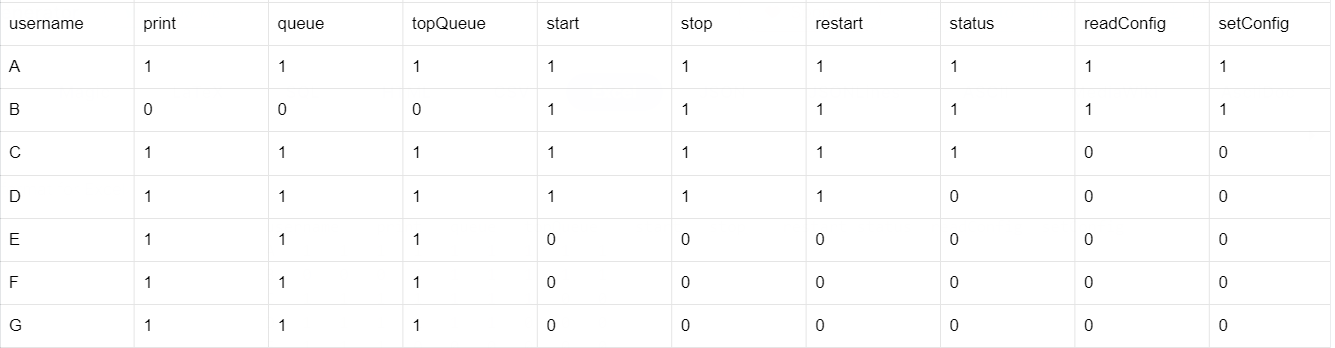
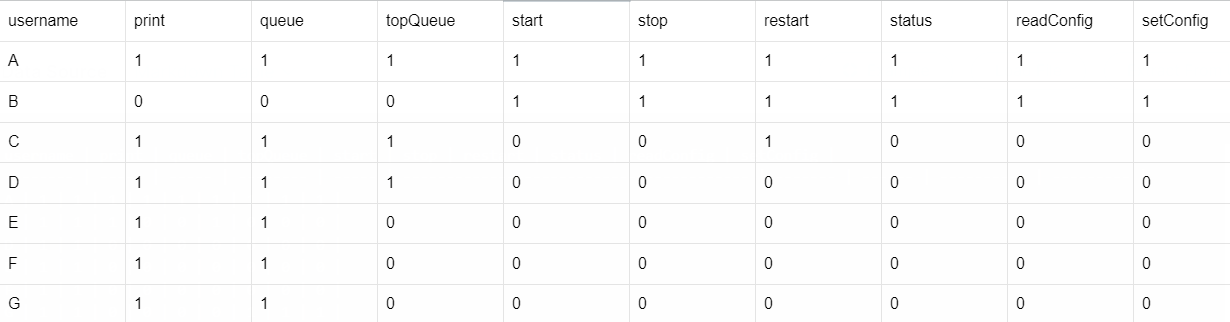
final review

diff --git a/Report-access-control.md b/Report-access-control.md
@@ -18,7 +18,7 @@ The two primary access control models are Access Control Lists (ACL) and Role-Ba
 For the purpose of this AC lab, the goal is to achieve the following properties:
 
 - Integrate both ACL and RBAC methodologies, making it possible to switch between the two.
-- External management of ACL parameters.
+- Indipendent management of ACL parameters with respect to software application.
 - Apply changes in organizational roles and responsibilities, ensuring ongoing relevance and effectiveness.
 - Test software functionalities and correctness.
 
@@ -33,9 +33,7 @@ This paragraph presents a concise solution using the ACL mechanism. More precise
 | :----------------------------------: |
 |     ![Table 1](pj2-images/table1.png)     |
 
-We use the `create_table.sql` file in order to create the above table and the user's table. Furthermore, the data is added to these tables manually due to the absence of any available APIs.  To include any pertinent data, one must directly manipulate the database or use JDBC APIs that are already integrated within the system.
-
-A Java interface  named  `Model` is located in _dtu.compute.server.ac_ implements the access control mechanism. Our model interface is defined as follows:
+We use the `create_table.sql` file in order to create the above table and the user's table. Furthermore, the data is added to these tables manually due to the absence of any available APIs Moreover, the Java interface  named  `Model` located in _dtu.compute.server.ac_ implements the access control mechanism. Our model interface is defined as follows:
 
 ```
 public interface Model {
@@ -90,7 +88,7 @@ else
     logger.error("Invalid Configuration");
 ```
 
-For every method within the printing system, the AC verification is implemented after checking user authentication. Permissions are checked through the specific implementation of `isMethodGranted`, and after retreiving methodName and userName, if the permission is not granted, the client will display the NOT_ALLOWED error message:
+For every method within the printing system, the AC verification is implemented after checking user authentication. Permissions are checked through the specific implementation of `isMethodGranted` by providing username and method, then if the permission is not granted, the client will display a NOT_ALLOWED error message:
 
 ```
 String methodName = new Object() {}.getClass().getEnclosingMethod().getName();
@@ -99,14 +97,14 @@ if (!accessControlModel.isMethodGranted(userName, methodName))
 	return userName + NOT_ALLOWED + methodName;
 ```
 
-The access control list will be kept in the database ensuring simultaneous access. Moreover, all the critical information is centralized because the user data is inside the database. The reason for this is that all of the data is stored inside the database. Furthermore, we favored using Java interfaces to achieve a level of abstraction and encapsulation. This approach offers the flexibility to adapt to future modifications in access control methods, like incorporating role-based access control.
+The access control list will be kept in the database ensuring simultaneous access. Moreover, all the critical information is centralized outside the application, since all user's data is inside the database. Furthermore, we favored using Java interfaces to achieve a level of abstraction and encapsulation. This approach offers the flexibility to adapt to future modifications in access control methods, like incorporating role-based access control.
 
 ## Role Based Access Control
 
 <!-- > (max 3 pages including diagrams)
 > This section should document the results of the role mining process performed  in Task 2 and provide a short overview of the implementation of the role based access control mechanism implemented in Task 3 along with the motivation behind all non-trivial design choices. In particular, it must describe the syntax used to specify the RBAC policy. -->
 
-The Role-Based implementation of the access control mechanism is defined in the following Table 2: each role type has different permissions on the service types provided by the printer and they are organized in the hierarchical structure shown in Figure 1.
+The Role-Based implementation of the access control mechanism is defined in Table 2. Each role has different service permissions and they are organized in the hierarchical structure shown in Figure 1.
 
 
 | **Table 2: Access control matrix for each role** |
@@ -117,12 +115,12 @@ The Role-Based implementation of the access control mechanism is defined in the 
 | :----------------------------------: |
 |     **Figure 1: Role Hierarchy**     |
 
-In order to use the Role-Based AC mechanism, the property `accessControlModel` is contained in the file _util.Configuration.java_ is set to _roleBasedAccessControl_. Then, the class `Role.java` in _dtu.compute.server.ac_ handles the implementation of the Model.java interface. More precisely, it implements the two methods:
+In order to use the Role-Based AC mechanism, the property `accessControlModel` contained in the file _util.Configuration.java_ is set to _roleBasedAccessControl_. Then, the class `Role.java` in _dtu.compute.server.ac_ handles the implementation of the Model.java interface. More precisely, it implements the two methods:
 
 - `isMethodGranted`
 - `isMethodGrantedForRole`
 
-The former checks specific roles associated with the provided username. The latter checks the role's permission relative to the specified printer service. Whenever a user has multiple roles, his final role is defined as a comma-separated sequence of those, and service permissions are checked against each user-associated role. Hereby we provide the full implementation:
+The former checks whether a specific permission is granted to the specified role. The latter performs the same check but on sets of roles associated to the same user. Whenever a user has multiple roles, such set is defined as a comma-separated sequence of roles, and service permissions are checked against each one of them. Hereby we provide the implementation:
 
 ```
 public class Role implements Model {
@@ -149,7 +147,7 @@ public class Role implements Model {
 }
 ```
 
-Finally, the user's PostgreSQL database will no longer contain ACL permissions, but rather the username, role and password hashes as shown in the following structure:
+Finally, the users PostgreSQL database no longer contain ACL permissions, rather the username, user's password and role as shown in the following structure:
 
 | **Table 3: User's roles** |
 | :----------------------------------: |
@@ -162,25 +160,25 @@ Finally, the user's PostgreSQL database will no longer contain ACL permissions, 
 > This section should document that the prototype enforces the access control policies defined in this assignment; both ACL and RBAC and both before and after the changes.
 The evaluation should provide a simple summary of which of the requirements are satisfied and which are not. -->
 
-This section provides an overview of our designed prototypes for ACL policies. The tables that are related to ACL are the user and access control table. Prior to any modifications, the tables' content are then given in the following sections:
+This section provides an overview of our designed prototypes for AC policies. For testing, two specific clients have been designed. The client for the ACL case is named  `ClientACL.java`, and can be found in _dtu.compute.client_. It tests the ACL functionalities and implements all the table changes after company organisational restructure. The second client in the same folder, named `ClientRole.java`, handles the same changes on the Role-Based implementation after filling up the role column in the user table. This test also verifies compliance with updated policy settings.
 
-The PostgreSQL database storing users' accounts should now reflect the changes to handle both ACL and Role-Based AC mechanisms. For this reason, we designed its new structure by adding the role field in the users table, with the initial value set as _None_:
+A first comment goes to the PostgreSQL database. In order to be able to handle both ACL and Role-Based AC mechanisms without data replication, we add the role field in the users table, with the initial value set as _None_. Its new structure is shown in Table 4:
 
 | **Table 4: User table** |
 | :----------------------------------: |
 |     ![Table 4](pj2-images/table4.png)     |
 
+### ACL
 
-The user table, in this instance, solely handles user authentication. Specific access control policies are stored in the access control list table, as illustrated in Table 5.
+In case of the ACL implementation, the user table solely handles user authentication, since specific access control policies are stored in the access control list table, as illustrated in Table 5.
 
 | **Table 5: Access Control List** |
 | :----------------------------------: |
-|    ![Table 5](pj2-images/table5.png)      |
+|    ![Table 5](pj2-images/table1.png)      |
 
 
-Subsequent to these changes, the content of both the user table and the access control list table is updated to reflect the recent shifts in the company's staff structure. Initially, B's records are deleted from both tables. Then, with G taking over some of B's duties and stepping into the role of an operation technician, G is granted the appropriate permissions in the access control list. In order to ensure that the permission of new employees, such as H, is accurately represented their insertion in the user table is pretty straightforward. After the changes, the new tables with the updated values (Table 6 and Table 7) are shown below:
+After the organisational changes though, the content of both these tables are updated to reflect the recent shifts in the company's staff structure. Initially, B's records are deleted from both. Then, with G receiving as the new technitian, G is granted the permissios to _status()_ _readConfig()_ and _setConfig()_ in the ACL.  Then H and I, the new employees, are inserted in the users table as simple users. The employee I is then given also permissions as root_user, meaning she is now also able to use topQueue() and restart(). After the changes, the updated tables are shown below:
 
-For testing, two specific clients have been designed. The client for the ACL case is named  `ClientACL.java`, and can be found in _dtu.compute.client_. It tests the ACL functionalities and implements all the table changes for B, G, and H. The second client in the same folder, named `ClientRole.java`, handles the same changes on the Role-Based implementation after filling up the role column in the user table. This test aims to verify the access control list's compliance with updated policy settings.
 
 | **Table 6: User table updated** |
 | :----------------------------------: |
@@ -192,26 +190,28 @@ For testing, two specific clients have been designed. The client for the ACL cas
 
 Implementation of the ACL mechanism has helped us achieve the requirements stated below:    
 
-- We run ACL requirements according to the given assignment description on the set of users and then model it using a prototype.
+- We set ACL requirements according to the given assignment description on the given users, and then model the AC mechanism using the client.
 
-- Specification of the access control list in the database.
+- ACL is stored in a separate environment from the application, precisely in a PostreSQL database.
 
-- We include the modifications to the ACL so that they will include the changes done on the company employees.
+- We include the modifications to the ACL so that they will include the changes of the new company structure.
 
-- Addition of `ClientACL.java` to simulate and validate the test cases in such a way that it tests the ACL functionalities and implements all the table changes for B,G, and H.
+- Addition of `ClientACL.java` to simulate and validate the test cases in such a way that it tests the ACL functionalities and implements all the table changes for B,G, H and I.
 
-Table 8 and Table 9 will show the tables for RBAC, which are discussed in the following sections:
+### Role-Based evaluation
+
+Thanks to its flexible design, the ACL table can now be used to assign specific permissions to each role in the company. For this specific application, it will therefore be shorter, and won't be modified by new hires in the company. 
 
 | **Table 8: User table with roles** |
 | :----------------------------------: |
 |    ![Table 8](pj2-images/table8.png)      |
 
-| **Table 9: The role table** |
+| **Table 9: Roles permissions** |
 | :----------------------------------: |
 |     ![Table 9](pj2-images/table9.png)     |
 
 
-We introduce roles in the tables that are absent for ACL and afterwards, according to the given scenario in this assignment description, we remove B from our users table. Subsequently, the role of G is adjusted from "user" to "user,tech" with different roles connected using ",". For the two recently included employees, I is assigned the role of root_user, while H is designated as a user. There won't be any changes done to the role table since we don't modify it in any way. Table 10 shows the user's table after our changes.
+After initially populating the the above tables accoring to assignment description, company changes are reflected by the following operations: B is removed from the users table; the role of G is adjusted from "user" to "user,tech" meaning a role-set of 2 roles. As for the new employees, I is inserted into the users table and assigned the role of root_user, while H is designated as a user. As anticipated, there won't be any changes done to the roles permissions table. Table 10 shows the users table after the changes:
 
 | **Table 10: Updated user table** |
 | :----------------------------------: |
@@ -219,15 +219,15 @@ We introduce roles in the tables that are absent for ACL and afterwards, accordi
 
 The implementation of the role-based access control mechanism has successfully met the following requirements:
 
-- Development of the role-based access control mechanism prototype that simulates the running of role-based access control requirements for our users.
+- Development of the role-based access control mechanism prototype that simulates the running of role-based access control requirements for our users. This AC mechanism is also dynamically handled by the users table.
 
-- Specification of the role hierarchy in the database.
+- Roles hierarchy are store in the database as an access control matrix using their respective permissions.
 
 - Incorporation of modifications to the role-based access control prototypes to reflect changes in company personnel.
 
-- Addition of `ClientRole.java` that handles the changes on the Role-Based implementation after filling up the role column in the user table. This test aims to verify the access control list's compliance with updated policy settings for users B, G, and H.
+- Addition of `ClientRole.java` to test the Role-Based implementation and company changes, by handling the updated policy settings for users B, G, H, I.
 
-However, both of the above mechanisms fall short in addressing two issues. Firstly, there is no registration API so users are inserted manually into the database, after which both of the clients are tested on them. Secondly, there is no proper UI for the registration of users, which hampers the practical usability of our application.
+However, for practical purposes, our design choices fall short in two aspects. Firstly, there is no persistence in the database, meaning our implementation inserts users manually into the database during every initialization, after which both of the clients are tested. Secondly, there is no proper UI for the registration of users, which makes our application more difficult to navigate for not-expert users.
 
 ### Run the project
 
@@ -264,6 +264,6 @@ To handle the onboarding and offboarding scenarios, that were presented to us in
 
 In this exercise, we incorporated access control using two mechanisms namely ACL (access control list) and RBAC(role-based access control) in our previously developed authentication lab. Initially, we developed prototypes for both mechanisms and eventually refined them to adapt to actual roles in the company. Figure 1 presents a clearly defined role hierarchy. In order to test both our access control mechanisms (ACL and RBAC), we developed separate clients for each that simulate the provided organization scenarios in the assignment description.
 
-In order to fulfill the assignment requirement of storage of ACL policies, we stored all the related information for both mechanisms in a PostgreSQL database. This also modeled a real-world scenario and then we defined a configuration variable `accessControlModel` to define the ACL mechanism to be used. These mechanisms then covered all our requirements that were defined in the introduction section.
+In order to fulfill the assignment requirement of storage of ACL policies, we stored all the related information for both mechanisms in a PostgreSQL database. This also modeled a real-world scenario and then we defined a configuration variable `accessControlModel` to switch between the two AC mechanisms. Our implementation also covers all our requirements that were defined in the introduction section.
 
 In the future, we can explore the integration of other access control mechanisms, such as attribute-based access control. A comparative analysis of the mechanisms discussed in this report could guide the selection of the most suitable one. Additionally, implementing a user-friendly interface for user registration and permission changes would enhance the overall user experience.
